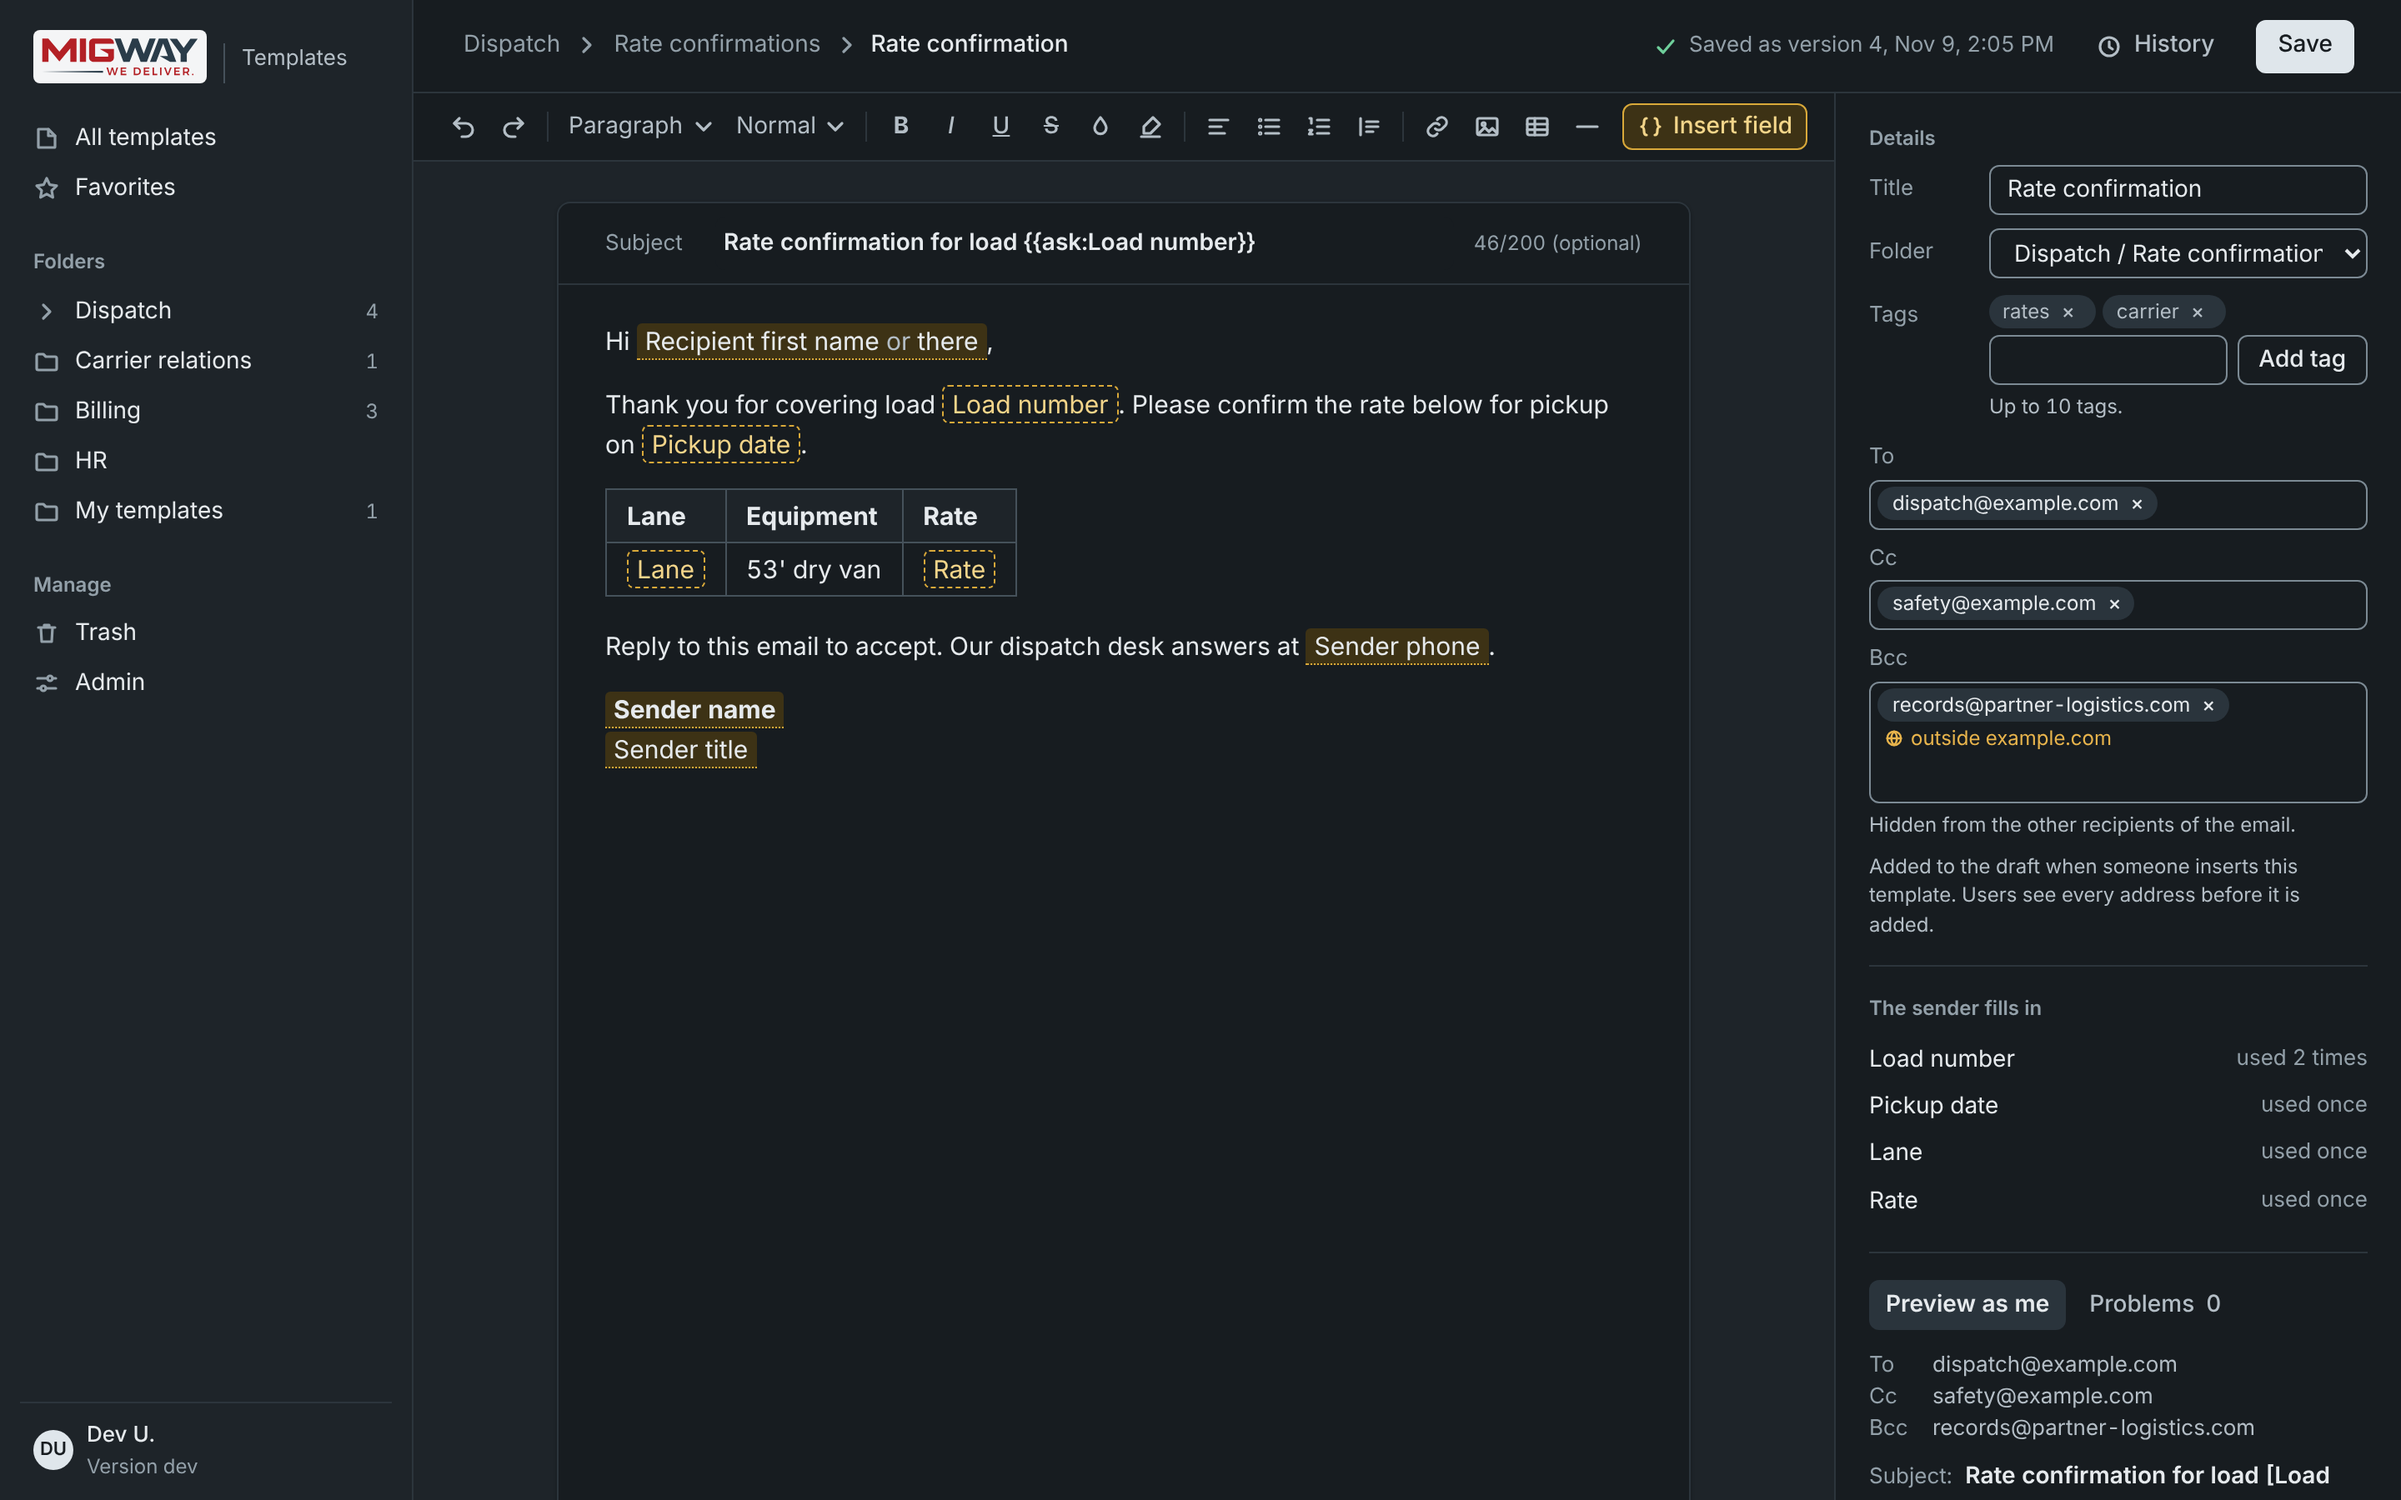
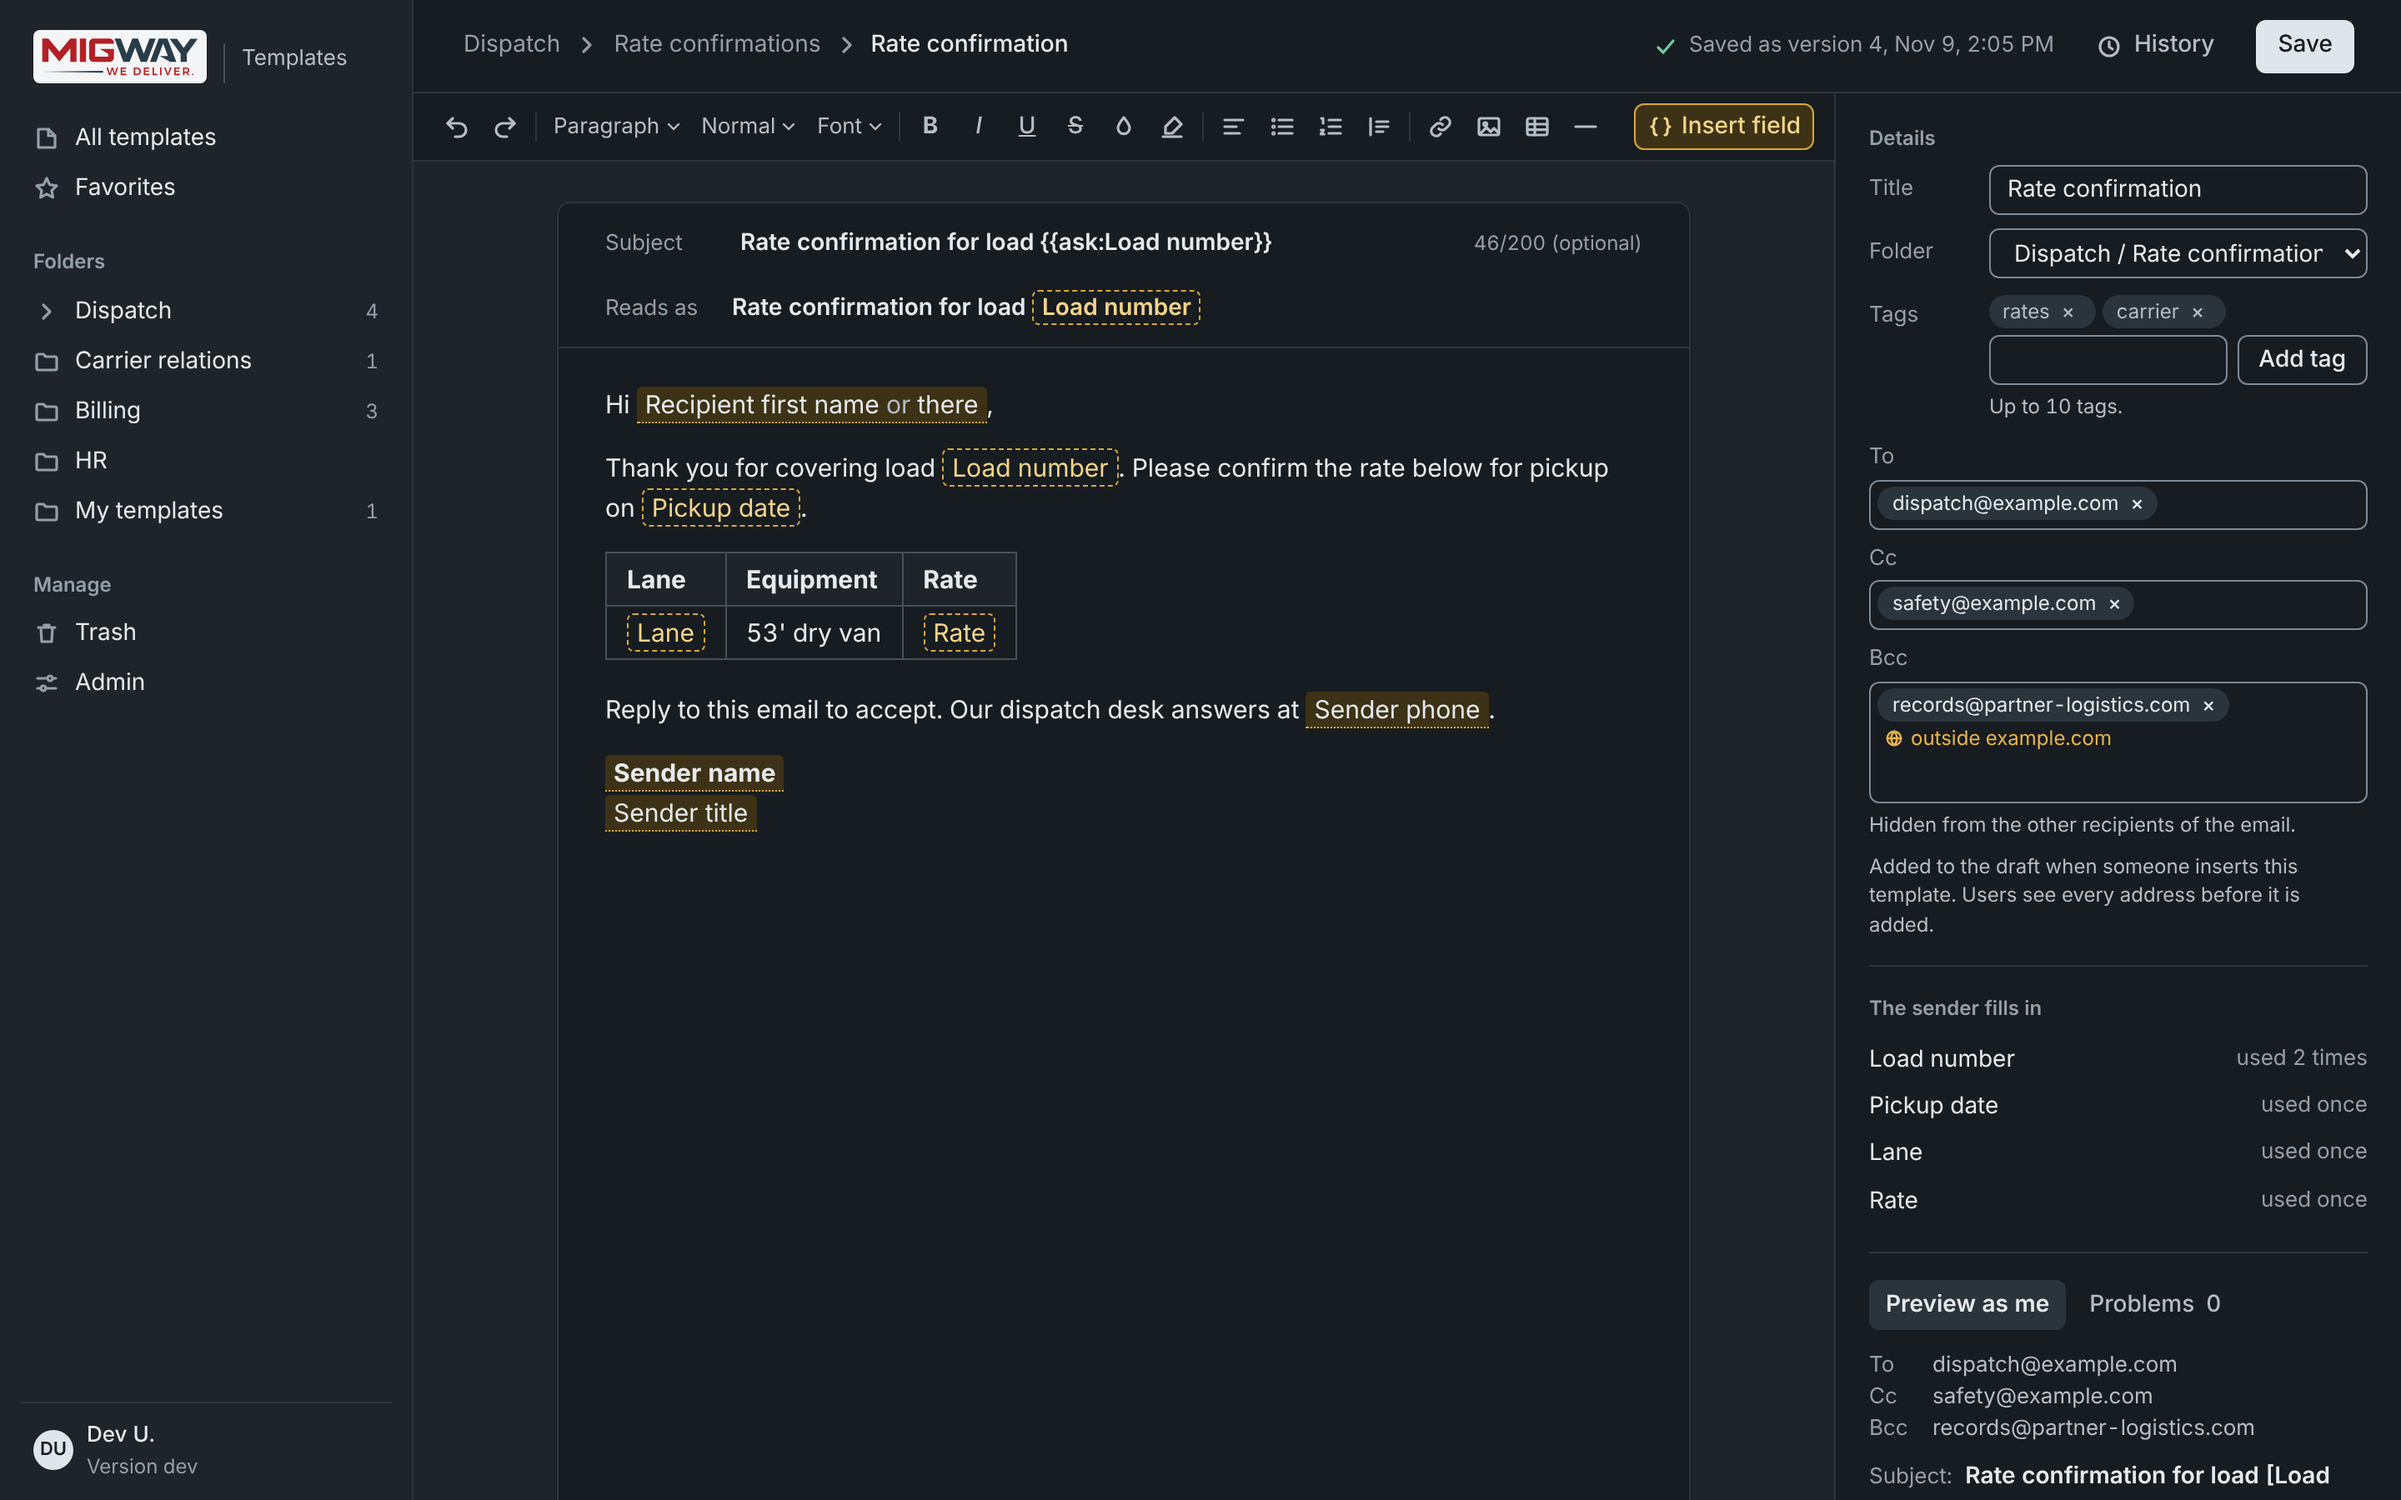
Slice 8b follow-up: screenshots (leave dialog, font menu), guide and smoke steps
Claude-Session: https://claude.ai/code/session_012ZwsG4LpmCrLbko1aSpcvx

diff --git a/src/web/styles.css b/src/web/styles.css
@@ -1394,7 +1394,7 @@ table {
 
 .subject-row label {
   flex: none;
-  width: 54px;
+  width: 64px;
   color: var(--ink-3);
   font-size: 13px;
 }
@@ -1428,7 +1428,8 @@ table {
 
 .reads-label {
   flex: none;
-  width: 54px;
+  width: 64px;
+  white-space: nowrap;
   color: var(--ink-3);
   font-size: 13px;
   font-weight: 400;

diff --git a/docs/ops/smoke.md b/docs/ops/smoke.md
@@ -153,8 +153,8 @@ Needs: the dev deployment of this build (reopen the add-on). Set the recipients 
 Needs: the dev deployment of this build (open the web app `/dev` URL), the owner account, the second account from slice 2 with `use` on one shared folder, and a public `https` image wider than 600 pixels plus one narrower than 600 pixels.
 
 1. Open "Smoke 3 quote" from the library. The header shows the folder path, the title, "Saved as version N, <time>" with a check, History and Save. The email sits on a sheet with the Subject line on top; the right panel shows Details, "The sender fills in" (each question with "used once" or "used n times") and the tabs "Preview as me" and "Problems 0".
-2. Toolbar: press Tab into it once, then the arrow keys: focus moves along every button, Home and End jump to the ends; hovering a button shows its name and shortcut ("Bold (Ctrl+B)"). Select a word, press B: it turns bold and B shows pressed. Type `{{`: the "Insert field" menu opens; pick "Sender name": a blank appears; Backspace removes it whole.
-3. Type a word: the header says "Unsaved changes". Press Ctrl+S: "Saving...", then "Saved as version N+1, <time>".
+2. Toolbar: press Tab into it once, then the arrow keys: focus moves along every button, Home and End jump to the ends; hovering a button shows its name and shortcut ("Bold (Ctrl+B)"). Select a word, press B: it turns bold and B shows pressed. Select a word, "Font", "Georgia" (each menu name shows in its own face): the word turns Georgia; "Font" again shows the check on Georgia. Type `{{`: the "Insert field" menu opens; pick "Sender name": a blank appears; Backspace removes it whole. The subject's "Reads as" line shows `Product` as a dashed blank.
+3. Type a word: the header says "Unsaved changes". Click "All templates": "Leave without saving?" with "Keep editing" focused. "Keep editing" stays; browser Back asks the same and the address stays on the editor. "Save and leave": the library opens and the template has a new version. Edit again, reload the tab: the browser asks before leaving (record whether it does inside Apps Script). Edit again, Ctrl+S: "Saving...", then "Saved as version N+1, <time>".
 4. In To type `s8b-to@migway.com` and press Enter, in Cc paste `s8b-a@migway.com, s8b-outside@example.com`: three chips; the outside one says "outside migway.com". Type `not-an-address` and Enter in Bcc: "Bcc, address 1 is not an email address. Use the form name@company.com." under Bcc. Remove it with its × button, Save. "Preview as me" shows the To and Cc lines above the subject. Reopen the template: the chips are back.
 5. Image: insert the wide image, then the narrow one. Open History, pick the new version: the wide image shows 600 pixels wide, the narrow one at its own width (not stretched).
 6. History: the version of step 4 shows its To and Cc lines above the subject.

diff --git a/docs/guide/editor-guide.md b/docs/guide/editor-guide.md
@@ -68,6 +68,7 @@ The toolbar is one Tab stop. Arrow keys move between its buttons; Home and End j
 | Undo, Redo | Undo (Ctrl+Z), redo (Ctrl+Y) |
 | "Paragraph" | Paragraph, Heading 1, Heading 2, Heading 3. The button shows the current style |
 | "Normal" | Text size: Small, Normal, Large, Huge. The button shows the current size |
+| "Font" | Font family: Arial, Georgia, Times New Roman, Verdana, Courier New, Trebuchet MS, or Default. Each name in the menu shows in its own face; the current family has a check |
 | B, I, U, S | Bold (Ctrl+B), italic (Ctrl+I), underline (Ctrl+U), strikethrough (Ctrl+Shift+X) |
 | Text color, Highlight color | Text color and background color |
 | Align text | Left, center, right, justify |
@@ -79,8 +80,11 @@ The toolbar is one Tab stop. Arrow keys move between its buttons; Home and End j
 | Horizontal line | Inserts a line |
 | "Insert field" | Placeholder menu. Typing `{{` in the text opens the same menu |
 
-The toolbar has no font family button. Fonts already in a template (for example pasted from Gmail) are kept.
-
+>>>
+<<<
+- Placeholders work here too. With the cursor in "Subject", "Insert field" types the text form at the cursor. The subject shows the text form, for example `{{ask:Load number}}`.
+===
+- Placeholders work here too. With the cursor in "Subject", "Insert field" types the text form at the cursor. The subject shows the text form, for example `{{ask:Load number}}`; while it holds a placeholder, the line "Reads as" under it shows the subject with blanks, as the reader sees it.
 ## Placeholders and fallbacks
 
 The placeholder menu lists 5 values and one question type.
@@ -133,6 +137,10 @@ Users with use access see every address on a card before Insert and cannot chang
    - "Cancel" keeps your text in the editor, unsaved.
 
 Nothing is overwritten without this dialog.
+
+### Leaving with unsaved changes
+
+While the header says "Unsaved changes", leaving the editor asks first: "Leave without saving?" with "Keep editing" (selected), "Discard changes" and "Save and leave". This covers the sidebar, the folder tree, the folder path in the header, "History", and the browser's Back and Forward. "Save and leave" leaves only when the save worked; a failed save or a "This template changed" dialog keeps you in the editor. Closing or reloading the browser tab asks through the browser's own question.
 
 ## Version history and restore
 
